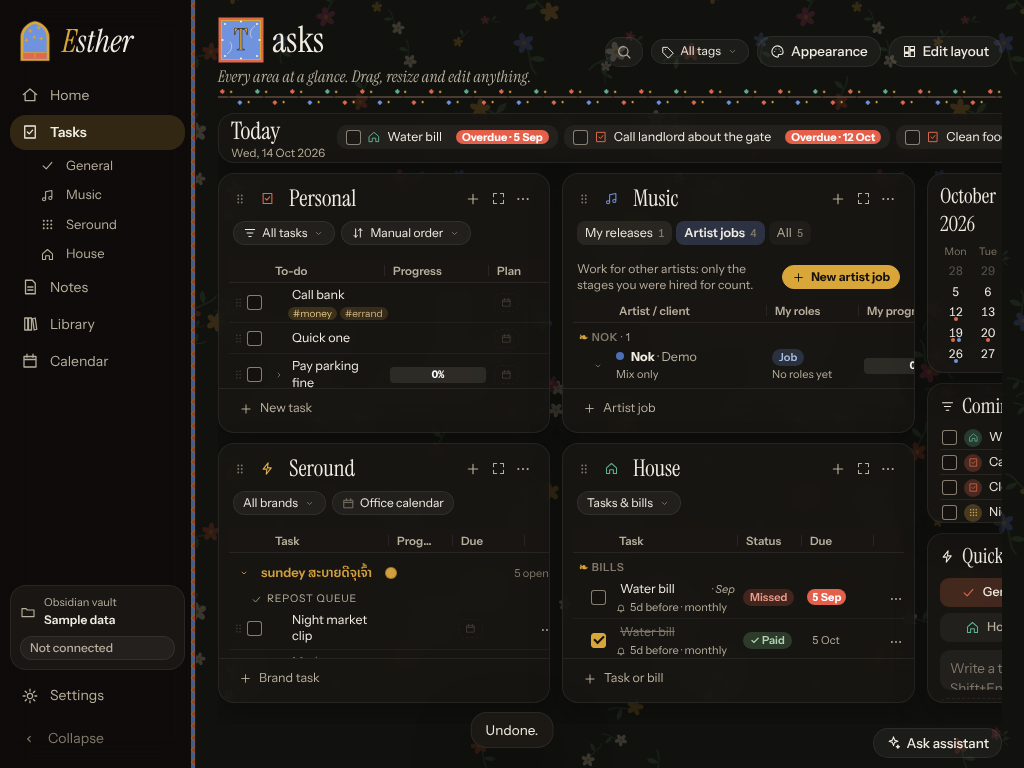
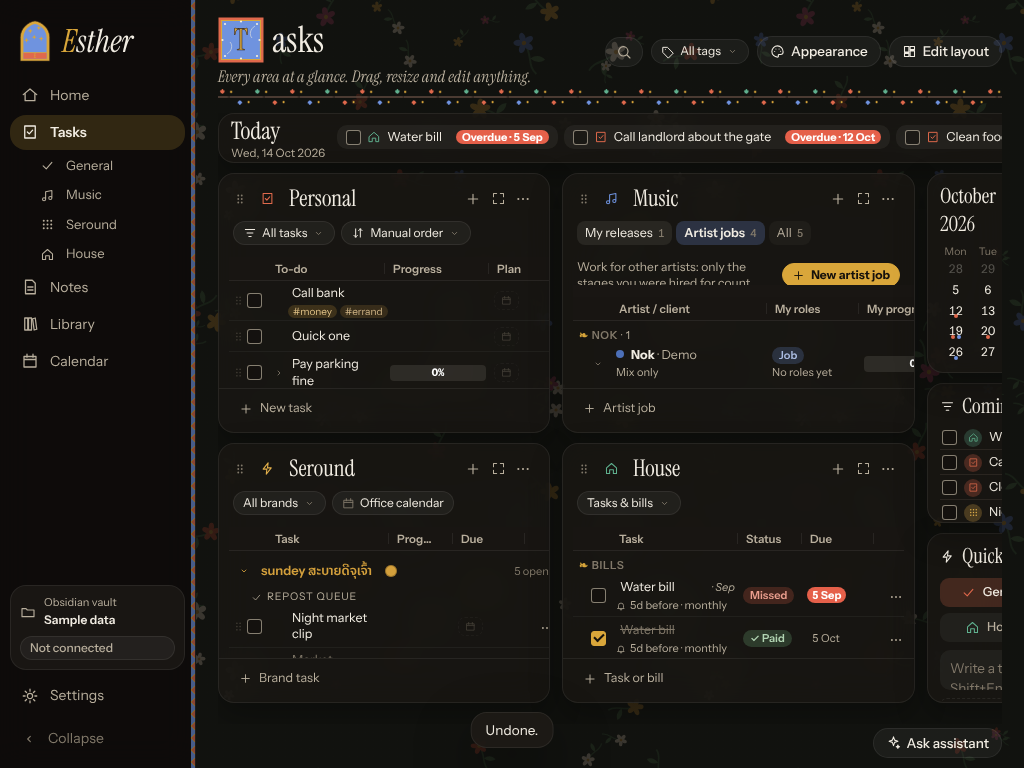
Round calendar days; sticky table headers flush with panel top
- Calendar days are circles: hover, today and picked share one round shape; event dots sit inside.
- Panel tables no longer show rows peeking above the sticky header when scrolled.

Claude-Session: https://claude.ai/code/session_016WKLQPuGqaCrfQHNoqNZZi

diff --git a/frankk-app/src/styles.css b/frankk-app/src/styles.css
@@ -1452,3 +1452,12 @@ input.editable.editing::selection { background: color-mix(in srgb, var(--accent)
 .rel-seg.now i { background: color-mix(in srgb, var(--tone, var(--row)) 22%, transparent); }
 .mini-steps i.done b, .mini-steps i.active b { background: var(--tone, var(--ok)); }
 .mini-steps .stage-badge { margin-left: 4px; }
+
+/* ── Iteration 18: round calendar days; sticky table headers sit flush with the panel top ── */
+.cal-grid { justify-items: center; align-items: center; }
+.cal-grid .day { width: min(34px, 100%); height: auto; aspect-ratio: 1; max-height: 100%; border-radius: 50% !important; display: grid; place-items: center; padding: 0 !important; transition: background .12s; }
+.cal-grid .day:hover:not(.today) { background: color-mix(in srgb, var(--text) 10%, transparent); }
+.cal-grid .day .marks { bottom: -1px; }
+.panel-body { padding-top: 0 !important; }
+.panel-body > .table > .thead, .panel-body .thead { top: 0; box-shadow: 0 -12px 0 0 var(--panel-solid, rgb(25 22 19)); }
+.cal-grid .day .marks { bottom: 4px; } .cal-grid .day { line-height: 1; padding-bottom: 4px !important; }
